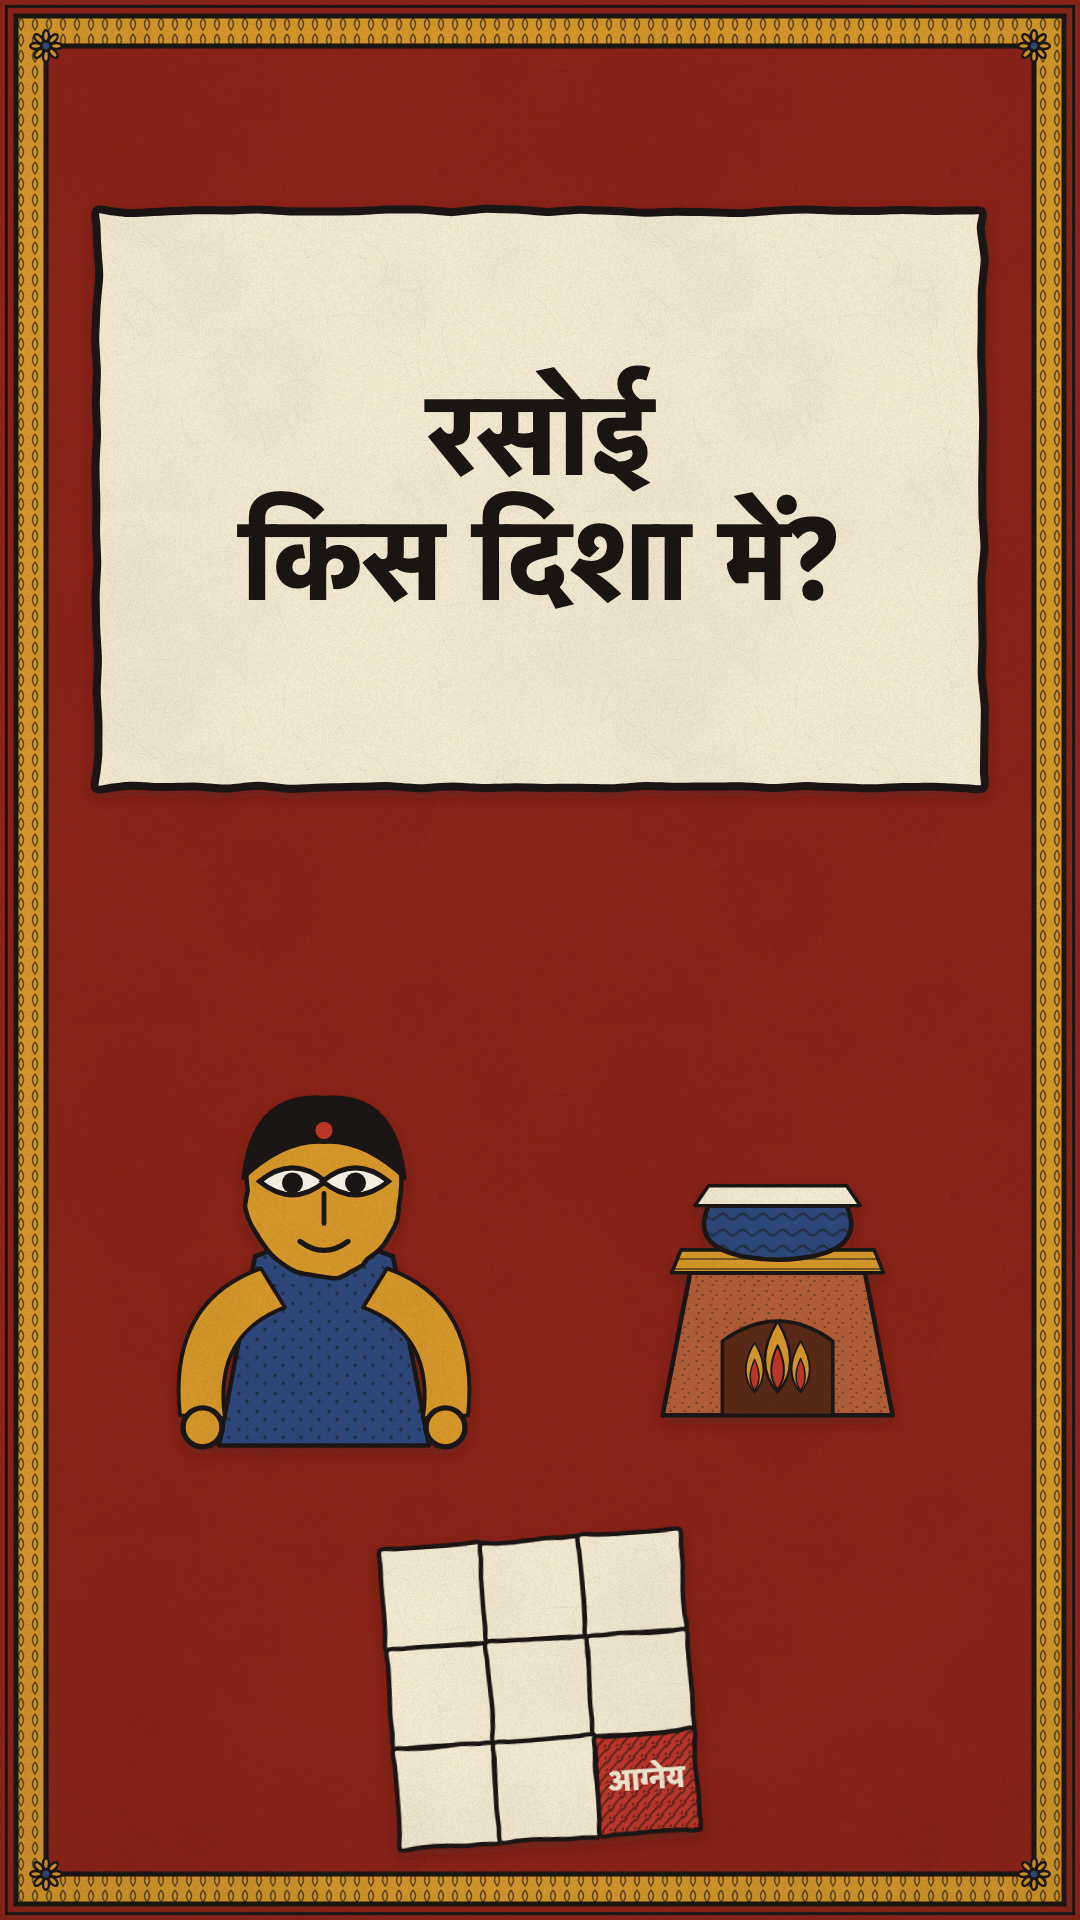
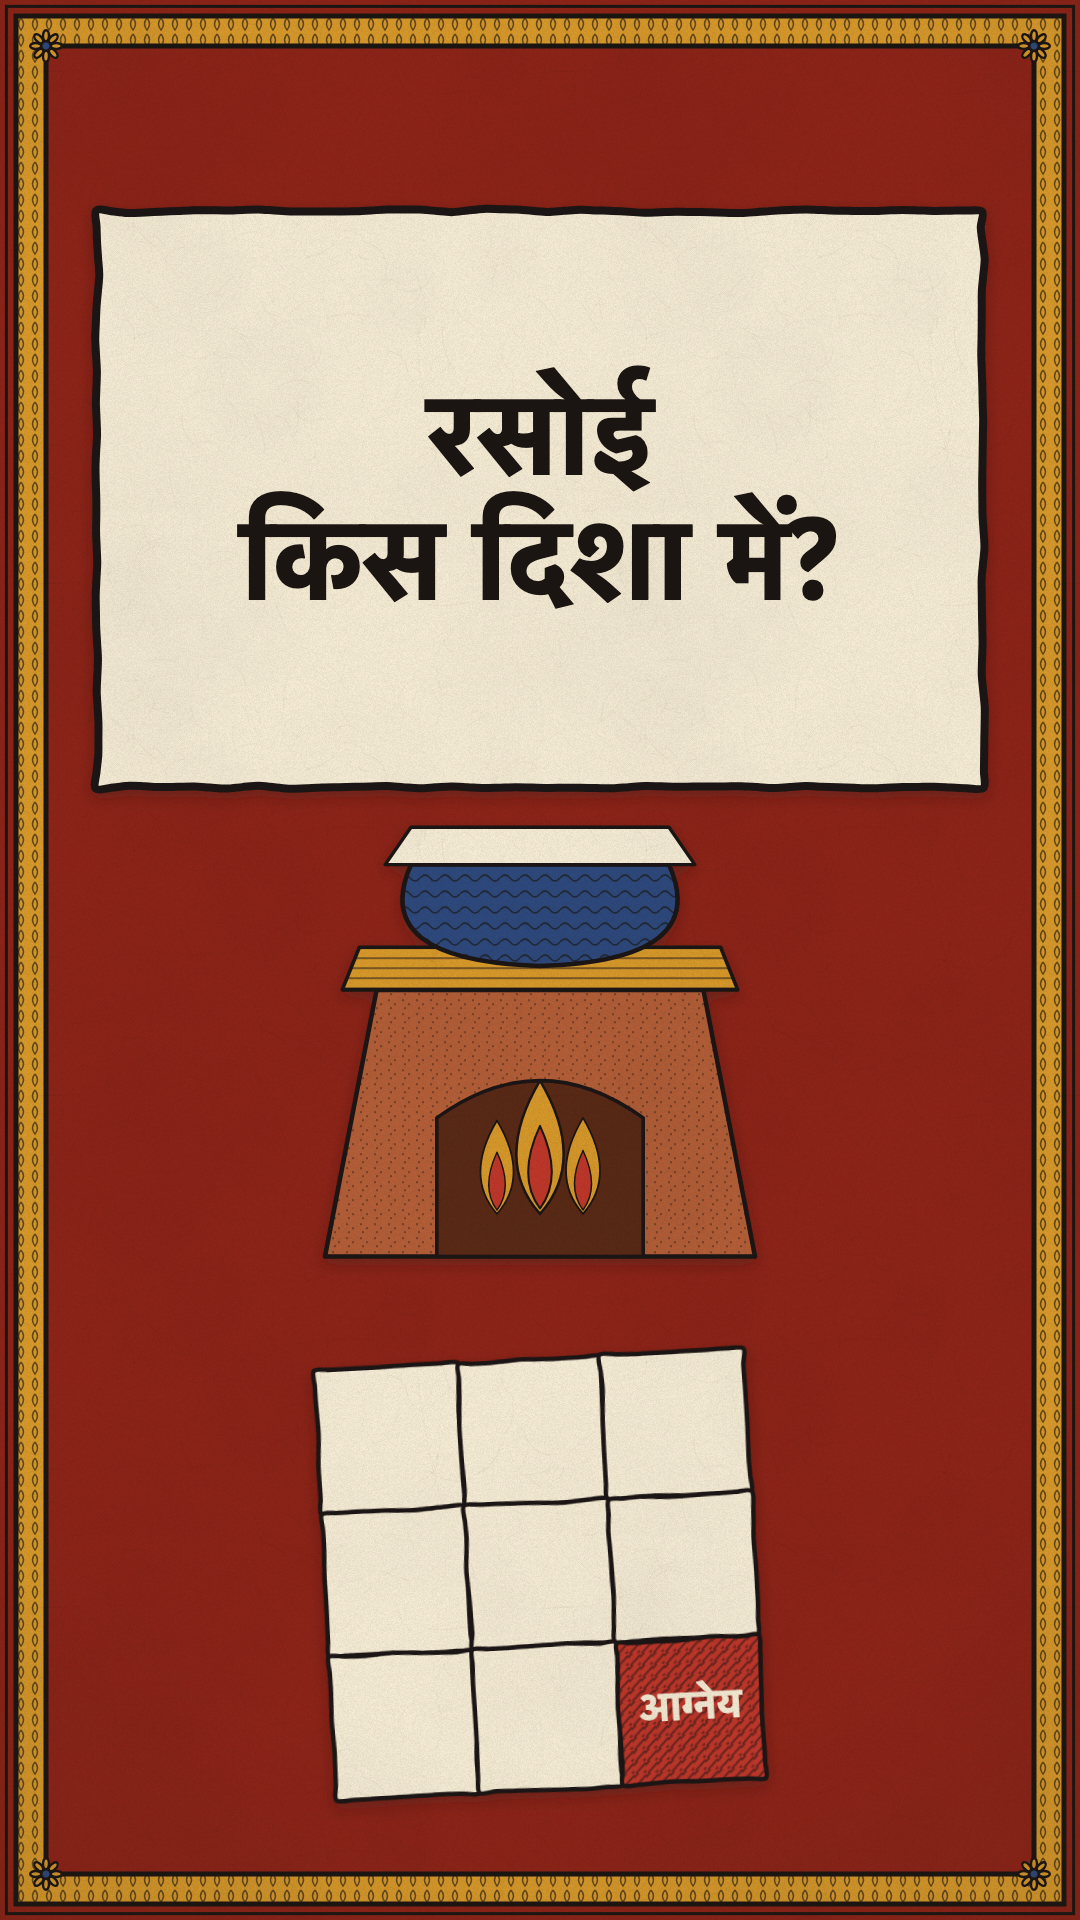
Drop the figure from the thumbnails; the stove carries them
The owner did not want the Madhubani figure. The packaging study asks for
a face OR high contrast, present in 89% of breakout thumbnails — the
saturated ground already supplies the contrast, so the face was never
load-bearing. The stove is the subject of the episode and reads better at
grid size anyway.

Also fixed spacing that only showed up once the figure was gone: the
landscape grid sat at y 612 with a 240px box on a 720px frame, so half of
it was off-frame and the rest was on top of the stove.

Changed region(s): [[0.1528, 0.4062, 0.825, 0.9688]]

diff --git a/episodes/brand/episode.js b/episodes/brand/episode.js
@@ -82,11 +82,12 @@ export default {
         });
         stage.add({ id: 'q', svg: text(lines.join('\n'), { size: 112, font: 'var(--font-deva)', fill: MB.ink, lineHeight: 1.12, weight: 700 }),
           x: CX, y: H * 0.26, layer: 8 });
-        stage.add({ id: 'cook', svg: mbFigure(1.5, { robe: MB.indigo, robePattern: 'dots' }),
-          x: W * 0.30, y: H * 0.62, layer: 6, shadow: 'cut-shadow' });
-        stage.add({ id: 'chulha', svg: chulha(230), x: W * 0.72, y: H * 0.70, layer: 5, shadow: 'cut-shadow' });
-        stage.add({ id: 'grid', svg: mbVastuGrid(300, { labels: ['','','','','','','','','आग्नेय'], highlight: 8, labelSize: 30 }),
-          x: CX, y: H * 0.88, layer: 7, rot: -4, shadow: 'cut-shadow' });
+        // The stove is the subject of the episode and reads better at grid
+        // size than a figure does. The packaging data wants a face OR high
+        // contrast; the saturated ground supplies the contrast.
+        stage.add({ id: 'chulha', svg: chulha(430), x: CX, y: H * 0.585, layer: 6, shadow: 'cut-shadow' });
+        stage.add({ id: 'grid', svg: mbVastuGrid(430, { labels: ['','','','','','','','','आग्नेय'], highlight: 8, labelSize: 40 }),
+          x: CX, y: H * 0.82, layer: 7, rot: -3, shadow: 'cut-shadow' });
         return;
       }
 
@@ -113,13 +114,9 @@ export default {
       // the cook at her stove — the face is the single biggest packaging gap
       // we had, and pairing her with the chulha makes it one picture instead
       // of two props sharing a frame
-      stage.add({ id: 'cook', svg: mbFigure(1.05, { robe: MB.indigo, robePattern: 'dots' }),
-        x: W * 0.14, y: H * 0.46, layer: 6, shadow: 'cut-shadow' });
-      stage.add({ id: 'chulha', svg: chulha(168), x: W * 0.30, y: H * 0.70, layer: 5, shadow: 'cut-shadow' });
-
-      // the vastu signifier, small and fully inside the frame
-      stage.add({ id: 'grid', svg: mbVastuGrid(188, { labels: ['','','','','','','','','आग्नेय'], highlight: 8, labelSize: 22 }),
-        x: W * 0.87, y: H * 0.79, layer: 7, rot: -5, shadow: 'cut-shadow' });
+      stage.add({ id: 'chulha', svg: chulha(280), x: W * 0.20, y: H * 0.42, layer: 6, shadow: 'cut-shadow' });
+      stage.add({ id: 'grid', svg: mbVastuGrid(190, { labels: ['','','','','','','','','आग्नेय'], highlight: 8, labelSize: 22 }),
+        x: W * 0.20, y: H * 0.78, layer: 7, rot: -4, shadow: 'cut-shadow' });
 
       stage.add({ id: 'q', svg: text('रसोई\nकिस दिशा में?', { size: 124, font: 'var(--font-deva)', fill: MB.ink, lineHeight: 1.08, weight: 700 }),
         x: W * 0.665, y: H * 0.33, layer: 8 });
